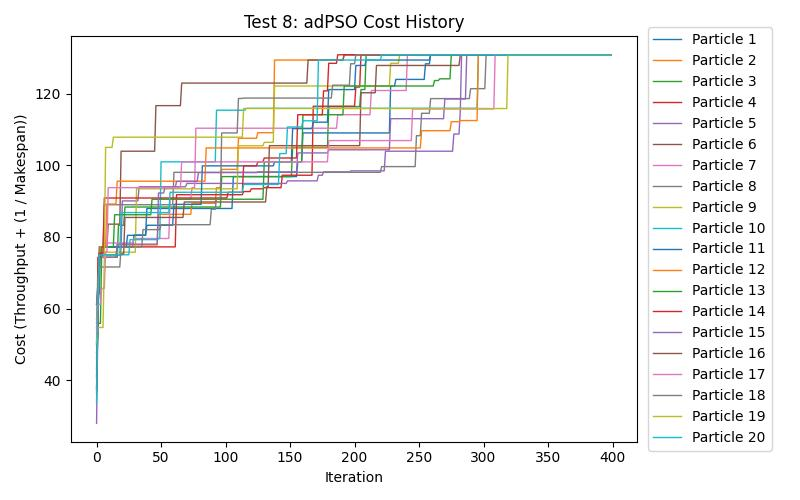
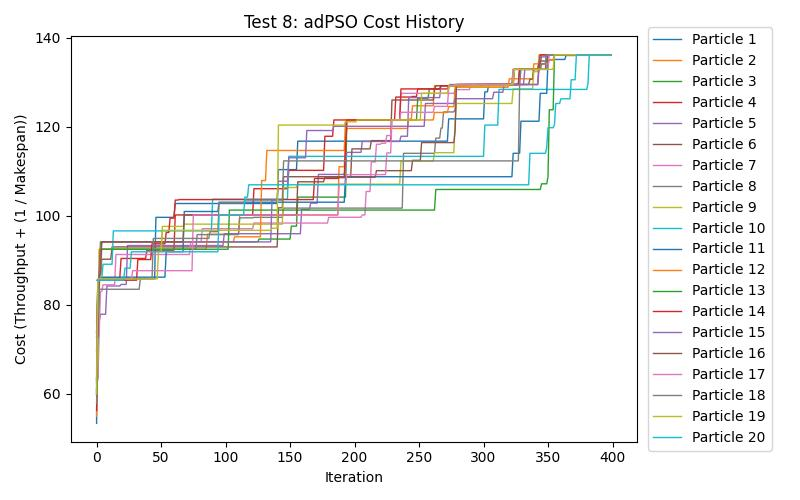
fix test 8 plot

diff --git a/psoscheduler/src/main/java/syslab/cloudcomputing/schedule/Scheduler.java b/psoscheduler/src/main/java/syslab/cloudcomputing/schedule/Scheduler.java
@@ -10,8 +10,8 @@ import syslab.cloudcomputing.simulation.*;
 
 public class Scheduler {
     public static void main(String[] args) {
-        DataCenter dataCenter = Scheduler.test7_DataCenter();
-        Workload workload = Scheduler.test7_Workload();
+        DataCenter dataCenter = Scheduler.test8_DataCenter();
+        Workload workload = Scheduler.test8_Workload();
         
         System.out.println(dataCenter);
         System.out.println(workload);
